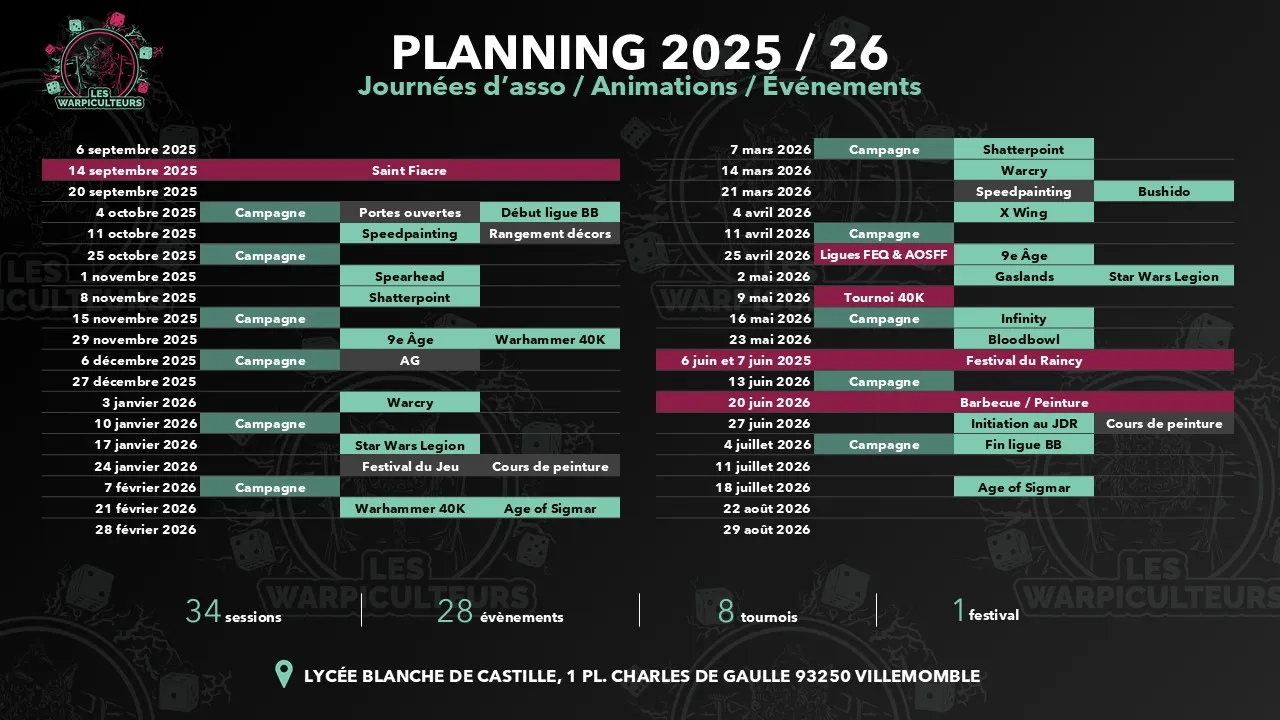
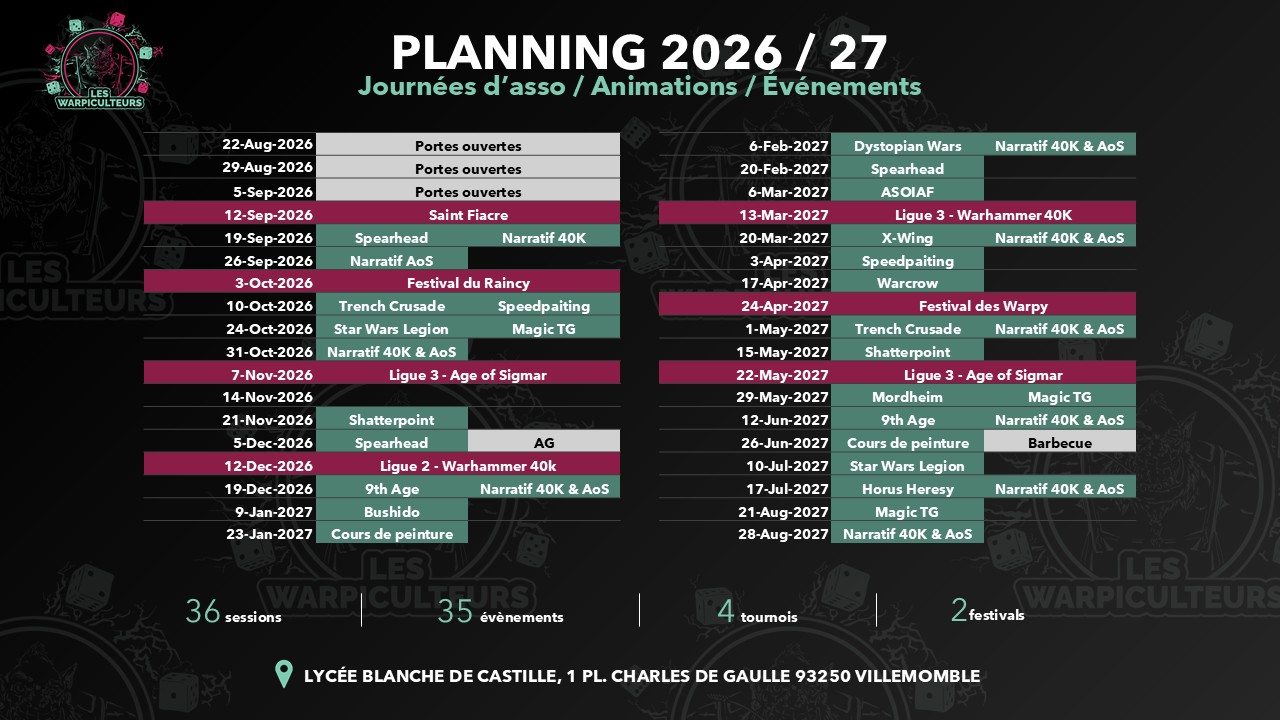
Update schedule description and planning calendar

diff --git a/index.html b/index.html
@@ -203,7 +203,12 @@
 
 <section class="accesHoraires" id="accesHoraires">
     <h1 class="titre">Horaire et accès</h1>
-    <p>Un samedi sur deux, de 8h30 à 18h30</p>
+    <p>
+        Lorsqu'il y a une date, l'association sera ouverte, sauf pour les  dates en rose pour lesquels nous organisons ou particpons
+        à des évènements hors de nos locaux.<br>
+        Lors de chaque journée, les adhérents peuvent jouer aux jeux qu'ils souhaitent.<br>
+        Nous proposons également des évènements ouverts au public autour d'un jeu, le temps d'une journée (en vert sur le planning)
+    </p>
 
     <figure class="calendar">
         <figcaption>Cliquez sur l'image pour l'ouvrir en grand.</figcaption>
